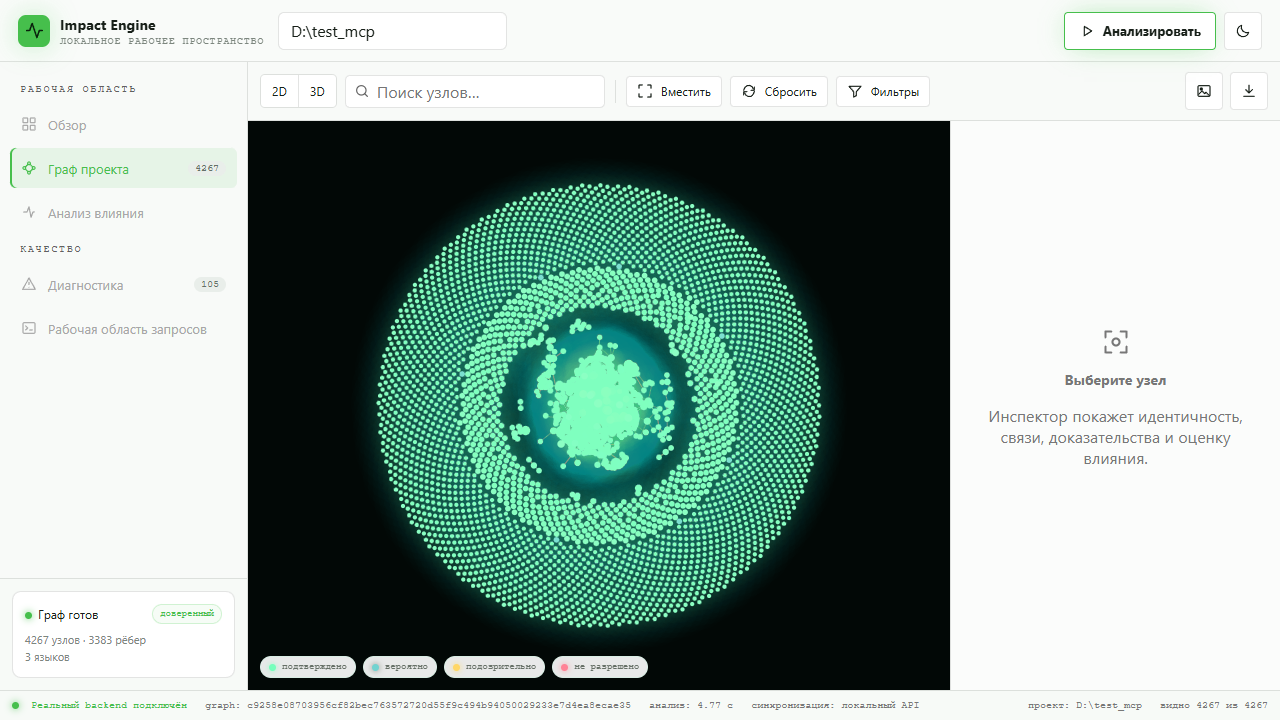
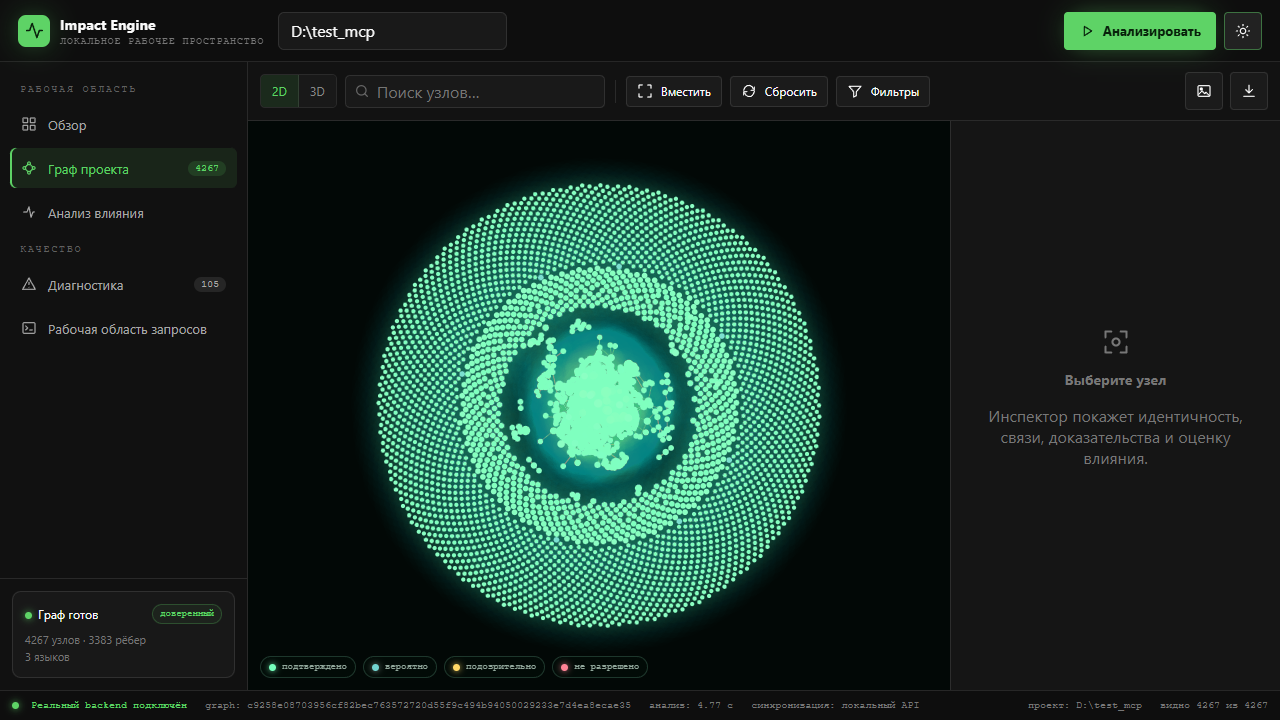
docs: add dark visuals to README

diff --git a/README.md b/README.md
@@ -9,6 +9,8 @@
 > Изменили `OrderRepository.save`? CodeSlicer помогает понять, какие сервисы,
 > маршруты, frontend-компоненты и тесты могут быть затронуты.
 
+![Семантический граф CodeSlicer](docs/images/codeslicer-hero.png)
+
 ## Содержание
 
 - [Возможности](#возможности)